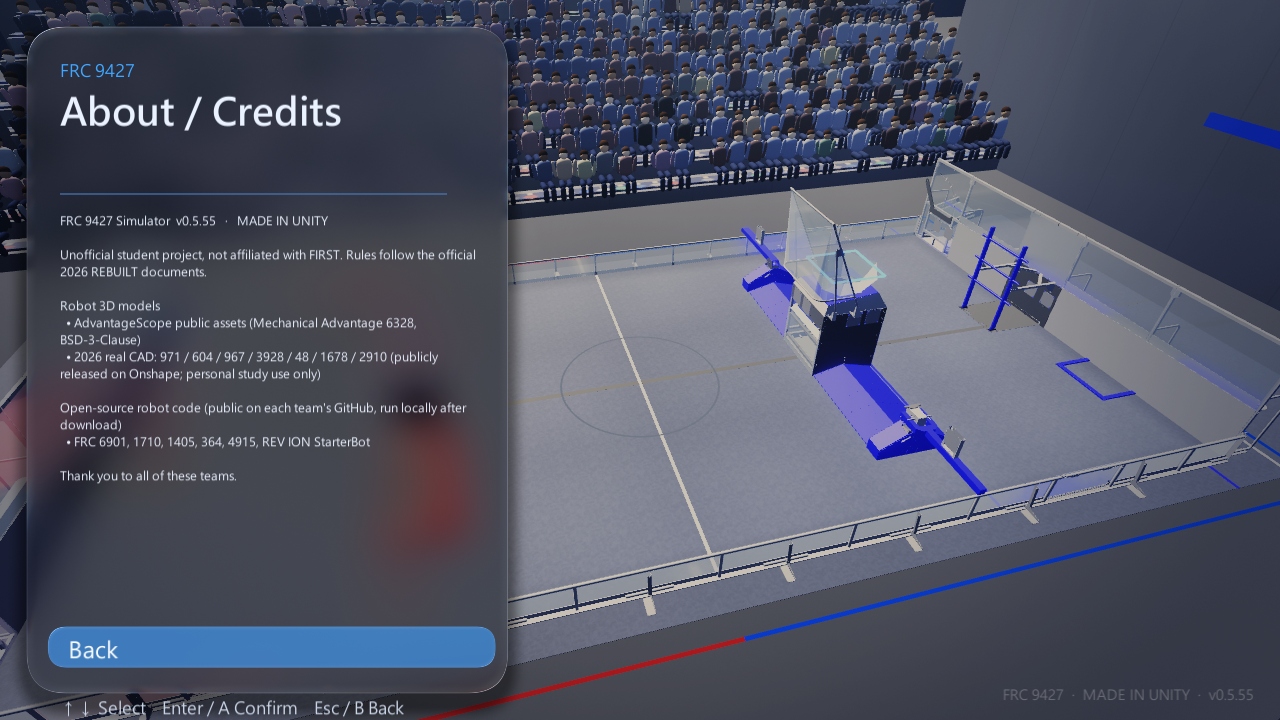
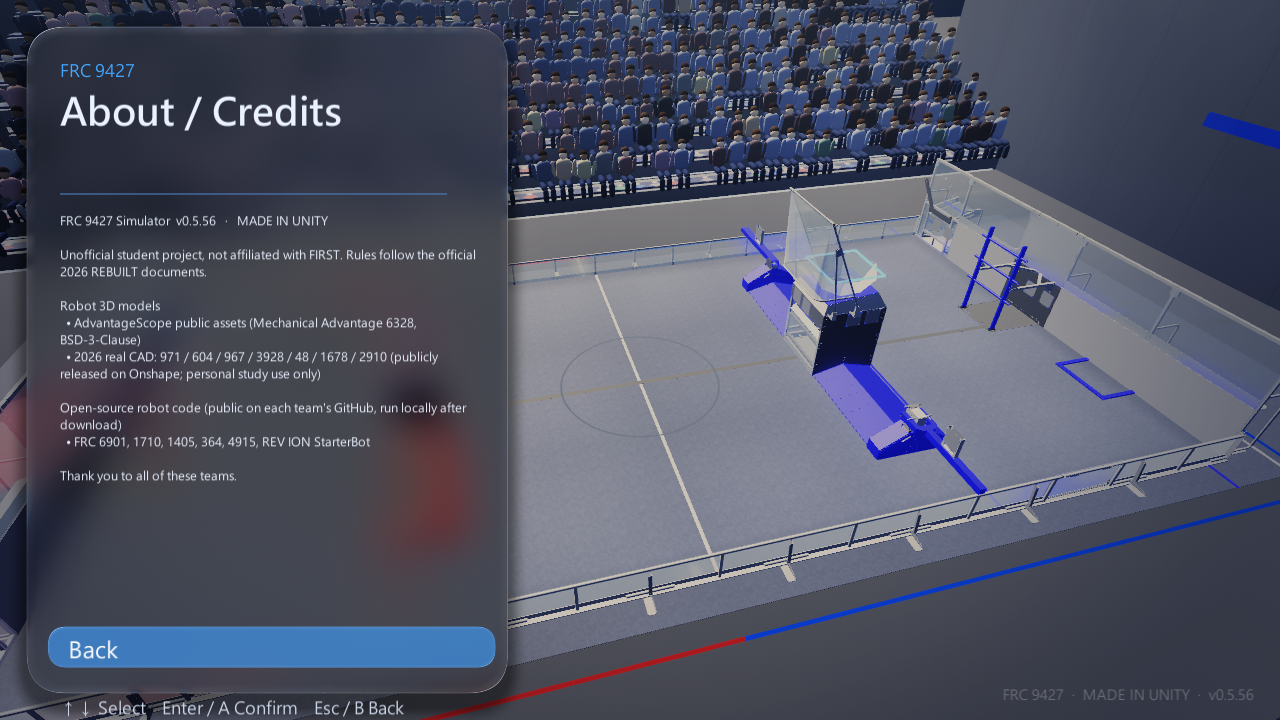
v0.5.56 stand glow

diff --git a/Assets/Scripts/Sim/FloorAccents.cs b/Assets/Scripts/Sim/FloorAccents.cs
@@ -27,6 +27,14 @@ namespace FrcSim
             // 短邊
             Strip("EndB", new Vector3(x0, y, W / 2f), new Vector3(t, 0.01f, z1 - z0), blue);
             Strip("EndR", new Vector3(x1, y, W / 2f), new Vector3(t, 0.01f, z1 - z0), red);
+            // 看台前緣冷白細光(像階梯式座席的踏面燈),兩側各一條
+            var cool = Look.GlowMaterial(new Color(0.75f, 0.85f, 1f), 1.1f);
+            foreach (int side in new[] { -1, 1 })
+            {
+                float edge = side < 0 ? 0f : W;
+                Strip("StandGlow", new Vector3(L / 2f, 0.07f, edge + side * 3.38f), new Vector3(L + 10f, 0.03f, 0.05f), cool);
+                for (int i = 1; i < 10; i += 3) Strip("StandStep", new Vector3(L / 2f, 0.42f * i + 0.05f, edge + side * (3.5f + i * 0.85f - 0.02f)), new Vector3(L + 10f, 0.025f, 0.04f), cool);
+            }
             // 場中央細環
             var ring = new GameObject("CenterRing"); ring.transform.SetParent(root, false);
             var lr = ring.AddComponent<LineRenderer>(); lr.useWorldSpace = true; lr.loop = true; lr.widthMultiplier = 0.035f; lr.sharedMaterial = white; lr.shadowCastingMode = UnityEngine.Rendering.ShadowCastingMode.Off; lr.alignment = LineAlignment.TransformZ;
@@ -36,3 +44,4 @@ namespace FrcSim
         }
     }
 }
+

diff --git a/Assets/Scripts/Sim/UpdateCheck.cs b/Assets/Scripts/Sim/UpdateCheck.cs
@@ -17,7 +17,7 @@ namespace FrcSim
     //   找不到差異包(或失敗)時退回「開啟下載頁」,讓使用者手動下載完整版。
     public class UpdateCheck : MonoBehaviour
     {
-        public const string Current = "0.5.55";
+        public const string Current = "0.5.56";
         const string Repo = "frc9427liu-tech/FRC9427-SimApp";
         const string ReleasesApi = "https://api.github.com/repos/" + Repo + "/releases?per_page=30";
         public const string Page = "https://github.com/" + Repo + "/releases/latest";
@@ -235,6 +235,7 @@ Start-Process -FilePath $Exe -WorkingDirectory $Dst
 ";
     }
 }
+
 
 
 
